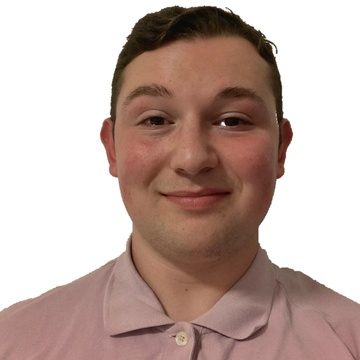
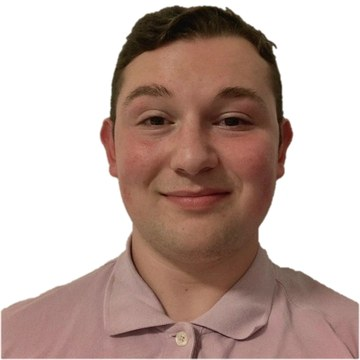
fix(ui,photo): repair eye cutout & edges, clean letter modal scrollbars, tune mobile spacing & move share to menu

diff --git a/index.css b/index.css
@@ -271,7 +271,7 @@ html.cv-loading *:not(.precision-motion, .precision-motion *) {
   display: flex;
   flex-direction: column;
   margin: 0 auto;
-  padding: clamp(78px, 10vw, 118px) clamp(var(--s4), 6vw, var(--s6)) var(--s3);
+  padding: clamp(78px, 10vw, 118px) clamp(var(--s4), 6vw, var(--s6)) var(--s6);
   background: var(--c-bg);
 }
 
@@ -1217,8 +1217,8 @@ h1 strong {
     --tl-gap: 24px;
   }
   .wrapper {
-    padding-top: 80px;
-    padding-bottom: var(--s3);
+    padding-top: 84px;
+    padding-bottom: var(--s6);
     padding-left: var(--s3);
     padding-right: var(--s3);
   }
@@ -1249,16 +1249,21 @@ h1 strong {
 
   .site-header {
     grid-template-columns: 1fr;
-    gap: var(--s3);
+    gap: var(--s4);
+    padding-bottom: var(--s5);
+    margin-bottom: var(--s5);
   }
 
   .contacts {
     align-items: flex-start;
+    gap: 8px;
   }
 
   .profile {
     grid-template-columns: 1fr;
-    gap: var(--s2);
+    gap: var(--s3);
+    padding-bottom: var(--s6);
+    margin-bottom: var(--s5);
   }
 
   .tl-item {
@@ -1307,6 +1312,7 @@ h1 strong {
     inset-inline-end: auto;
   }
 
+  #share-btn,
   #print-opts-btn,
   #letter-btn,
   #photo-btn {
@@ -2944,12 +2950,10 @@ html.scroll-reveal .dashboard > section.is-instant {
 }
 
 .letter-dialog .photo-close {
-  position: sticky;
+  position: absolute;
   top: 10px;
-  float: right;
-  margin-top: -26px;
-  margin-right: -44px;
-  margin-bottom: -10px;
+  right: 10px;
+  margin: 0;
   z-index: 20;
   width: 32px;
   height: 32px;
@@ -2959,9 +2963,9 @@ html.scroll-reveal .dashboard > section.is-instant {
 }
 
 [dir="rtl"] .letter-dialog .photo-close {
-  float: left;
-  margin-right: 0;
-  margin-left: -44px;
+  right: auto;
+  left: 10px;
+  margin: 0;
 }
 
 .opt-dialog {
@@ -2985,8 +2989,15 @@ html.scroll-reveal .dashboard > section.is-instant {
 .letter-card {
   max-height: min(90vh, 900px);
   overflow-y: auto;
+  overflow-x: hidden;
   overscroll-behavior: contain;
-  padding: 36px 56px 32px 36px;
+  scrollbar-width: none;
+  -ms-overflow-style: none;
+  padding: 30px 32px 28px;
+}
+
+.letter-card::-webkit-scrollbar {
+  display: none;
 }
 
 .opt-card {
@@ -3001,7 +3012,7 @@ html.scroll-reveal .dashboard > section.is-instant {
   line-height: 1.2;
   color: var(--c-ink);
   margin: 0 0 20px;
-  padding-inline-end: 40px;
+  padding-inline-end: 36px;
 }
 
 .cl-web-body {
@@ -3010,7 +3021,6 @@ html.scroll-reveal .dashboard > section.is-instant {
   font-size: 15.5px;
   line-height: 1.65;
   color: var(--c-ink-2);
-  padding-inline-end: 48px;
 }
 
 .cl-p {
@@ -3169,24 +3179,19 @@ html.scroll-reveal .dashboard > section.is-instant {
 
 @media (max-width: 540px) {
   .letter-card {
-    padding: 30px 42px 24px 20px;
+    padding: 24px 20px;
   }
 
   .letter-dialog .photo-close {
     top: 8px;
-    margin-top: -22px;
-    margin-right: -34px;
+    right: 8px;
     width: 30px;
     height: 30px;
   }
 
   [dir="rtl"] .letter-dialog .photo-close {
-    margin-right: 0;
-    margin-left: -34px;
-  }
-
-  .cl-web-body {
-    padding-inline-end: 38px;
+    right: auto;
+    left: 8px;
   }
 
   .cl-web-body,

diff --git a/index.html b/index.html
@@ -364,6 +364,10 @@
           <svg xmlns="http://www.w3.org/2000/svg" fill="none" viewBox="0 0 24 24" stroke-width="1.8" stroke="currentColor" aria-hidden="true"><path stroke-linecap="round" stroke-linejoin="round" d="M15.75 6a3.75 3.75 0 1 1-7.5 0 3.75 3.75 0 0 1 7.5 0ZM4.501 20.118a7.5 7.5 0 0 1 14.998 0A17.933 17.933 0 0 1 12 21.75c-2.676 0-5.216-.584-7.499-1.632Z" /></svg>
           <span data-i18n="btn_photo">Foto</span>
         </button>
+        <button class="mm-item" id="mm-share" type="button" data-forward="#share-btn" hidden>
+          <svg xmlns="http://www.w3.org/2000/svg" fill="none" viewBox="0 0 24 24" stroke-width="1.8" stroke="currentColor" aria-hidden="true"><path stroke-linecap="round" stroke-linejoin="round" d="M7.217 10.907a2.25 2.25 0 1 0 0 2.186m0-2.186c.18.324.283.696.283 1.093s-.103.77-.283 1.093m0-2.186 9.566-5.314m-9.566 7.5 9.566 5.314m0-10.628a2.25 2.25 0 1 0 0-4.5 2.25 2.25 0 0 0 0 4.5Zm0 10.628a2.25 2.25 0 1 0 0-4.5 2.25 2.25 0 0 0 0 4.5Z" /></svg>
+          <span data-i18n="btn_share">Compartir</span>
+        </button>
       </div>
     </div>
     </div>
@@ -639,12 +643,12 @@
       </div>
     </dialog>
     <dialog id="letter-dialog" class="letter-dialog hide-print" aria-labelledby="cl-web-title">
+      <button id="letter-close-btn" class="photo-close" type="button" data-i18n="aria_close" aria-label="Cerrar">
+        <svg xmlns="http://www.w3.org/2000/svg" fill="none" viewBox="0 0 24 24" stroke-width="2" stroke="currentColor" aria-hidden="true">
+          <path stroke-linecap="round" stroke-linejoin="round" d="M6 18 18 6M6 6l12 12" />
+        </svg>
+      </button>
       <div class="letter-card">
-        <button id="letter-close-btn" class="photo-close" type="button" data-i18n="aria_close" aria-label="Cerrar">
-          <svg xmlns="http://www.w3.org/2000/svg" fill="none" viewBox="0 0 24 24" stroke-width="2" stroke="currentColor" aria-hidden="true">
-            <path stroke-linecap="round" stroke-linejoin="round" d="M6 18 18 6M6 6l12 12" />
-          </svg>
-        </button>
         <h3 class="cl-web-title" id="cl-web-title" data-i18n="letter_title">Carta de presentación</h3>
         <div class="cl-web-body">
         <p class="cl-p"><span data-i18n="letter_p1">p1</span></p>

diff --git a/index.js b/index.js
@@ -118,11 +118,11 @@ const applyTranslations = (langCode, activeMenuCode = langCode) => {
   
   const langLabel = document.getElementById('lang-label');
   if (langLabel) {
-    langLabel.textContent = activeMenuCode === 'auto' ? 'Auto' : metadata.name;
+    langLabel.textContent = metadata.name;
   }
   const langShort = document.getElementById('lang-short');
   if (langShort) {
-    langShort.textContent = activeMenuCode === 'auto' ? 'Auto' : metadata.iso;
+    langShort.textContent = metadata.iso;
   }
   
   // Search Engine & Metadata synchronization
@@ -1068,6 +1068,10 @@ const setupScrollReveal = () => {
   if (shareButton) { 
     shareButton.hidden = !(navigator.share || navigator.clipboard);
     shareButton.addEventListener('click', handleShare);
+    const mmShare = document.getElementById('mm-share');
+    if (mmShare) {
+      mmShare.hidden = shareButton.hidden;
+    }
   }
 
   const vcardBtn = document.getElementById('vcard-btn');
